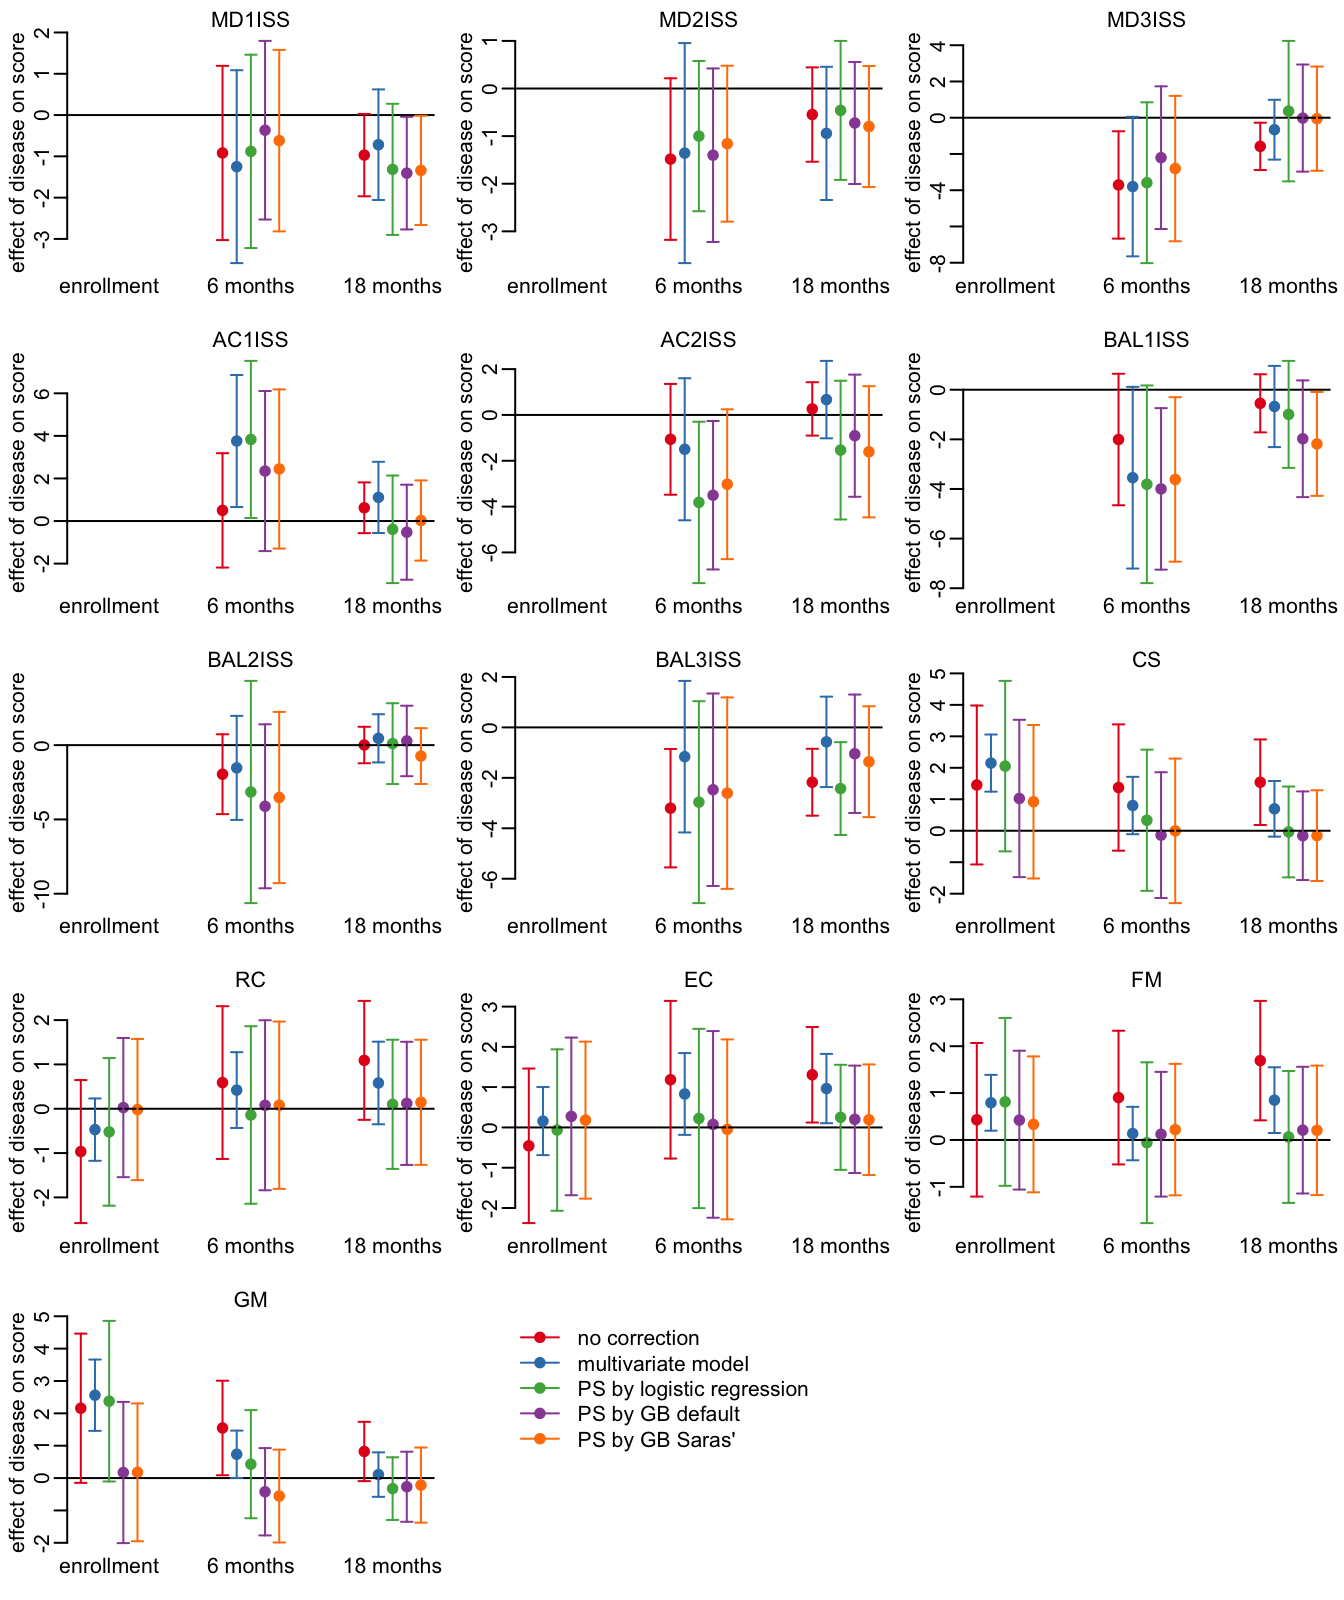
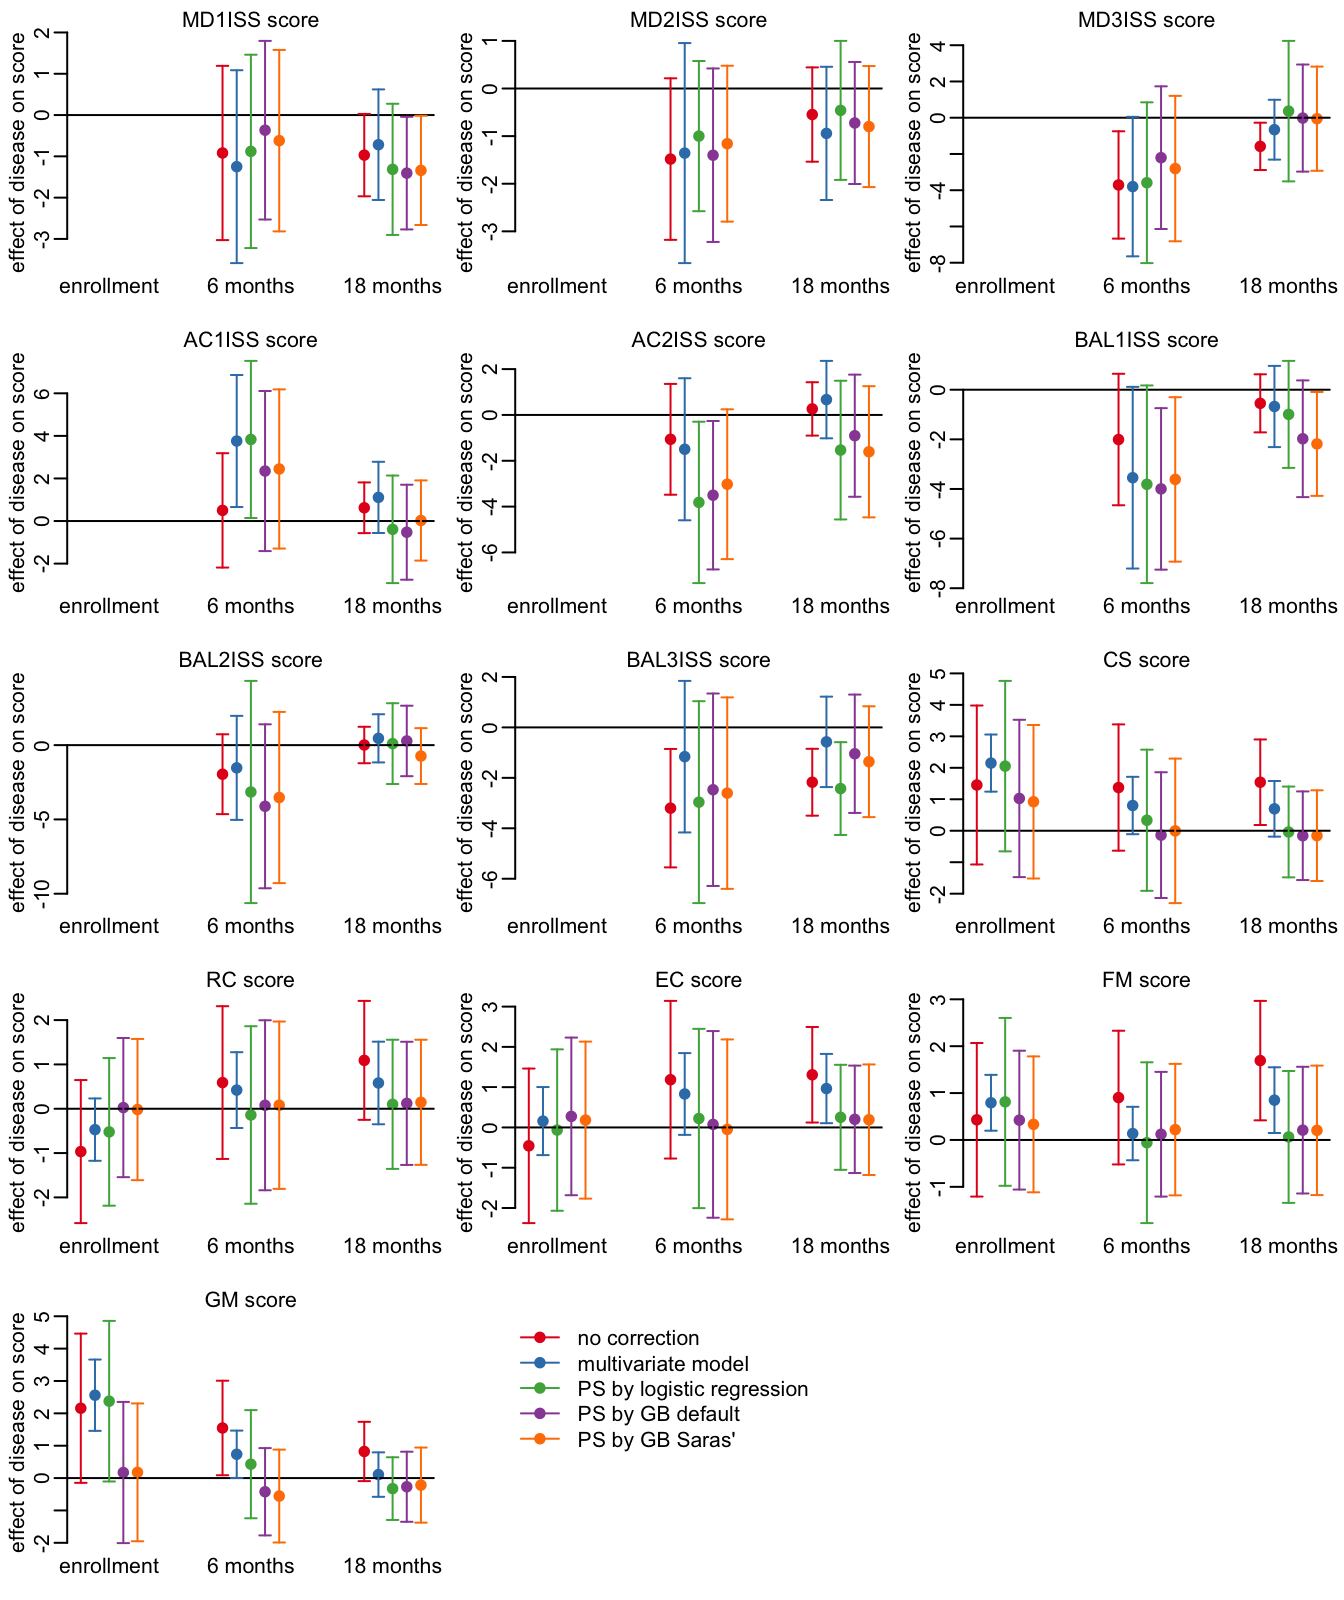
Add "score" to the titles of the figure on effects

diff --git a/data.html b/data.html
@@ -1643,7 +1643,7 @@ Not Wasted      Waste
 <span id="cb125-3"><a href="#cb125-3" aria-hidden="true" tabindex="-1"></a>    <span class="fu">map</span>(prepare_data, <span class="fu">filter</span>(output, response <span class="sc">==</span> var)) <span class="sc">|&gt;</span> </span>
 <span id="cb125-4"><a href="#cb125-4" aria-hidden="true" tabindex="-1"></a>    <span class="fu">plot_effects</span>()</span>
 <span id="cb125-5"><a href="#cb125-5" aria-hidden="true" tabindex="-1"></a></span>
-<span id="cb125-6"><a href="#cb125-6" aria-hidden="true" tabindex="-1"></a>  <span class="fu">mtext2</span>(var)</span>
+<span id="cb125-6"><a href="#cb125-6" aria-hidden="true" tabindex="-1"></a>  <span class="fu">mtext2</span>(<span class="fu">paste</span>(var, <span class="st">"score"</span>))</span>
 <span id="cb125-7"><a href="#cb125-7" aria-hidden="true" tabindex="-1"></a>  <span class="fu">mtext2</span>(timepoints, <span class="dv">1</span>, <span class="at">at =</span> <span class="fu">seq_along</span>(timepoints))</span>
 <span id="cb125-8"><a href="#cb125-8" aria-hidden="true" tabindex="-1"></a>}</span></code></pre></div><button title="Copy to Clipboard" class="code-copy-button"><i class="bi"></i></button></div>
 </div>
